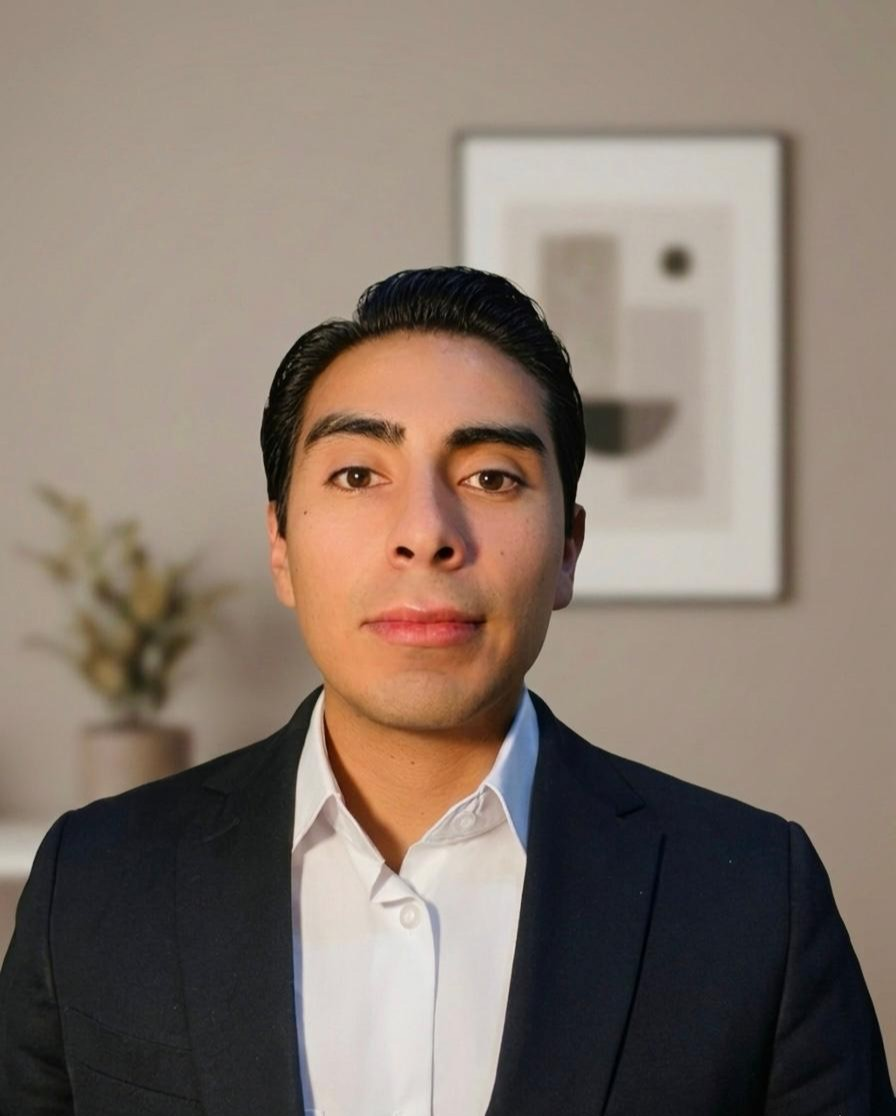
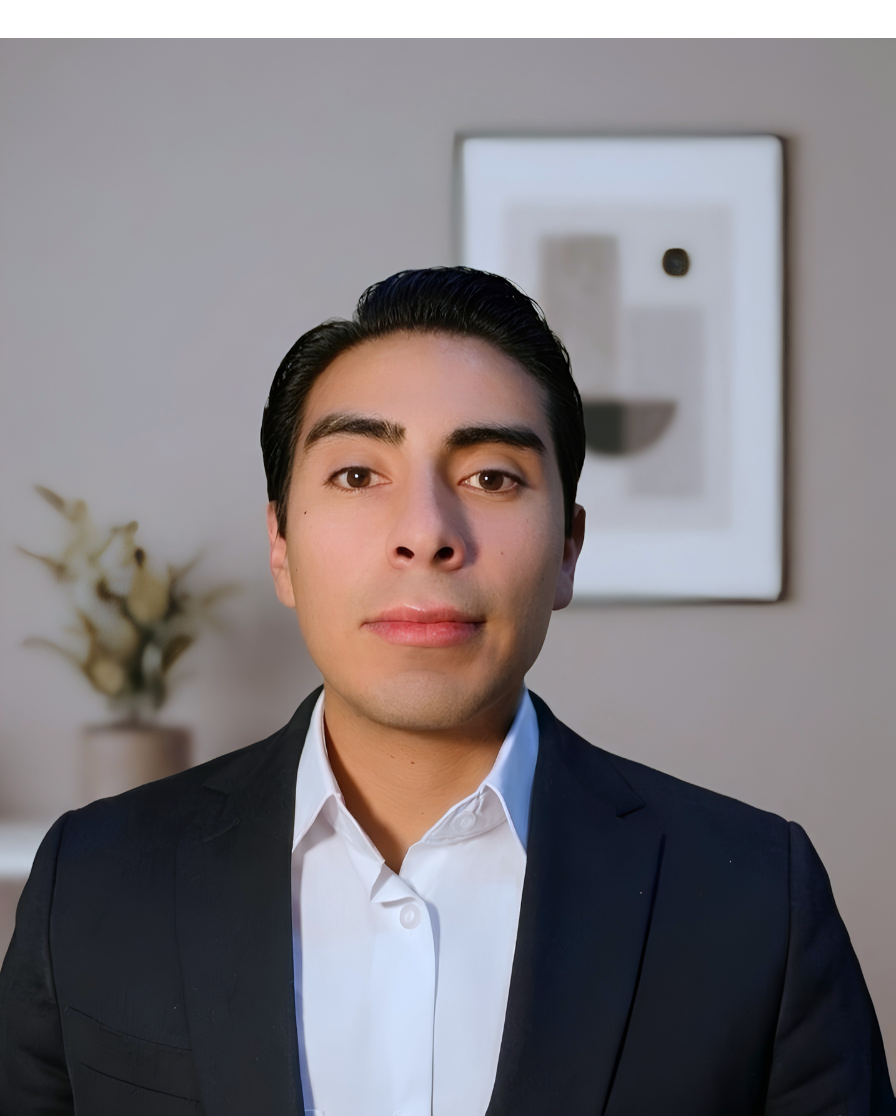
Add files via upload

diff --git a/index.html b/index.html
@@ -294,8 +294,8 @@ section{padding:120px 0}
 .eq-ceo{display:grid;grid-template-columns:420px 1fr;gap:0;border:1px solid var(--border2);border-radius:var(--rl);overflow:hidden;background:var(--card);margin-bottom:20px;position:relative}
 .eq-ceo::before{content:'';position:absolute;top:0;left:0;right:0;height:2px;background:linear-gradient(90deg,var(--accent),rgba(0,163,224,.3),transparent)}
 .eq-ceo-photo{position:relative;overflow:hidden;min-height:480px}
-.eq-ceo-photo img{width:100%;height:100%;object-fit:cover;object-position:center top;display:block;image-rendering:-webkit-optimize-contrast;image-rendering:crisp-edges;filter:contrast(1.06) saturate(1.08) brightness(1.04)}
-.eq-ceo-photo::after{content:'';position:absolute;inset:0;background:linear-gradient(to right,transparent 70%,var(--card));pointer-events:none}
+.eq-ceo-photo img{width:100%;height:100%;object-fit:cover;object-position:center top;display:block}
+.eq-ceo-photo::after{content:'';position:absolute;inset:0;background:linear-gradient(to right,transparent 85%,var(--card));pointer-events:none}
 .eq-ceo-info{padding:48px 44px;display:flex;flex-direction:column;justify-content:center}
 .eq-badge{display:inline-flex;align-items:center;gap:8px;padding:6px 14px;background:var(--ag);border:1px solid rgba(0,163,224,.14);border-radius:100px;font-size:9px;font-weight:600;letter-spacing:2px;text-transform:uppercase;color:var(--accent);margin-bottom:20px;width:fit-content}
 .eq-badge::before{content:'';width:5px;height:5px;background:var(--accent);border-radius:50%;flex-shrink:0}
@@ -867,7 +867,7 @@ section{padding:120px 0}
       height="560"
       loading="eager"
       decoding="async"
-      style="image-rendering:-webkit-optimize-contrast"
+      
     >
   </div>
   <div class="eq-ceo-info">
@@ -945,7 +945,7 @@ section{padding:120px 0}
 <button class="mx">&times;</button>
 <div class="mc">
 <p class="mlb">Equipo</p>
-<img src="mi_foto.jpeg" alt="Misael De Paz" class="mph" width="96" height="96" loading="lazy" style="filter:contrast(1.06) saturate(1.08) brightness(1.04)">
+<img src="mi_foto.jpeg" alt="Misael De Paz" class="mph" width="96" height="96" loading="lazy">
 <h3 class="mna">Misael De Paz</h3>
 <p class="mrl">Fundador & CEO — Selixor Systems</p>
 <p class="mtx">Selixor nació de una pregunta que millones de familias se hacen cada día: <em>¿cómo sabes que todo está bien cuando no estás ahí?</em></p>
